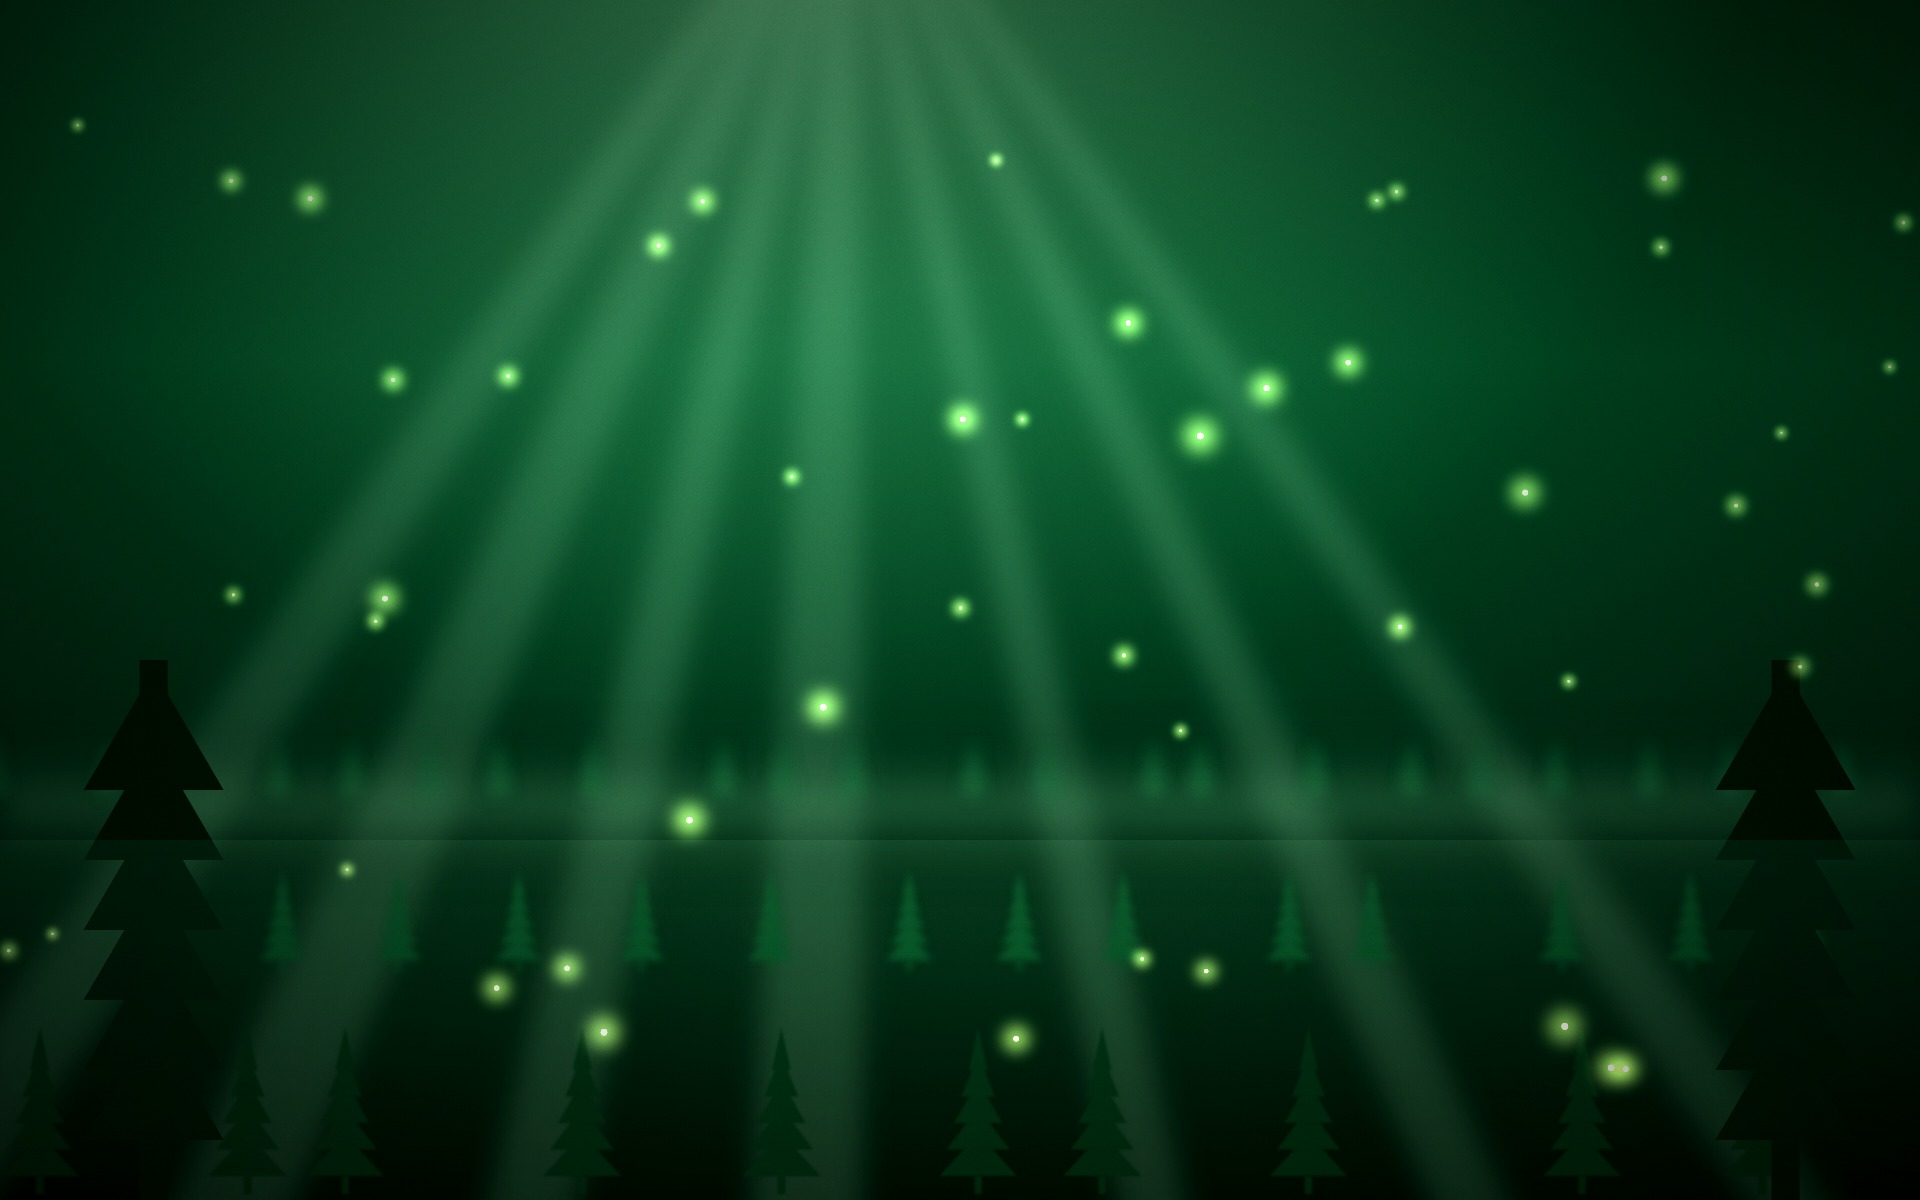
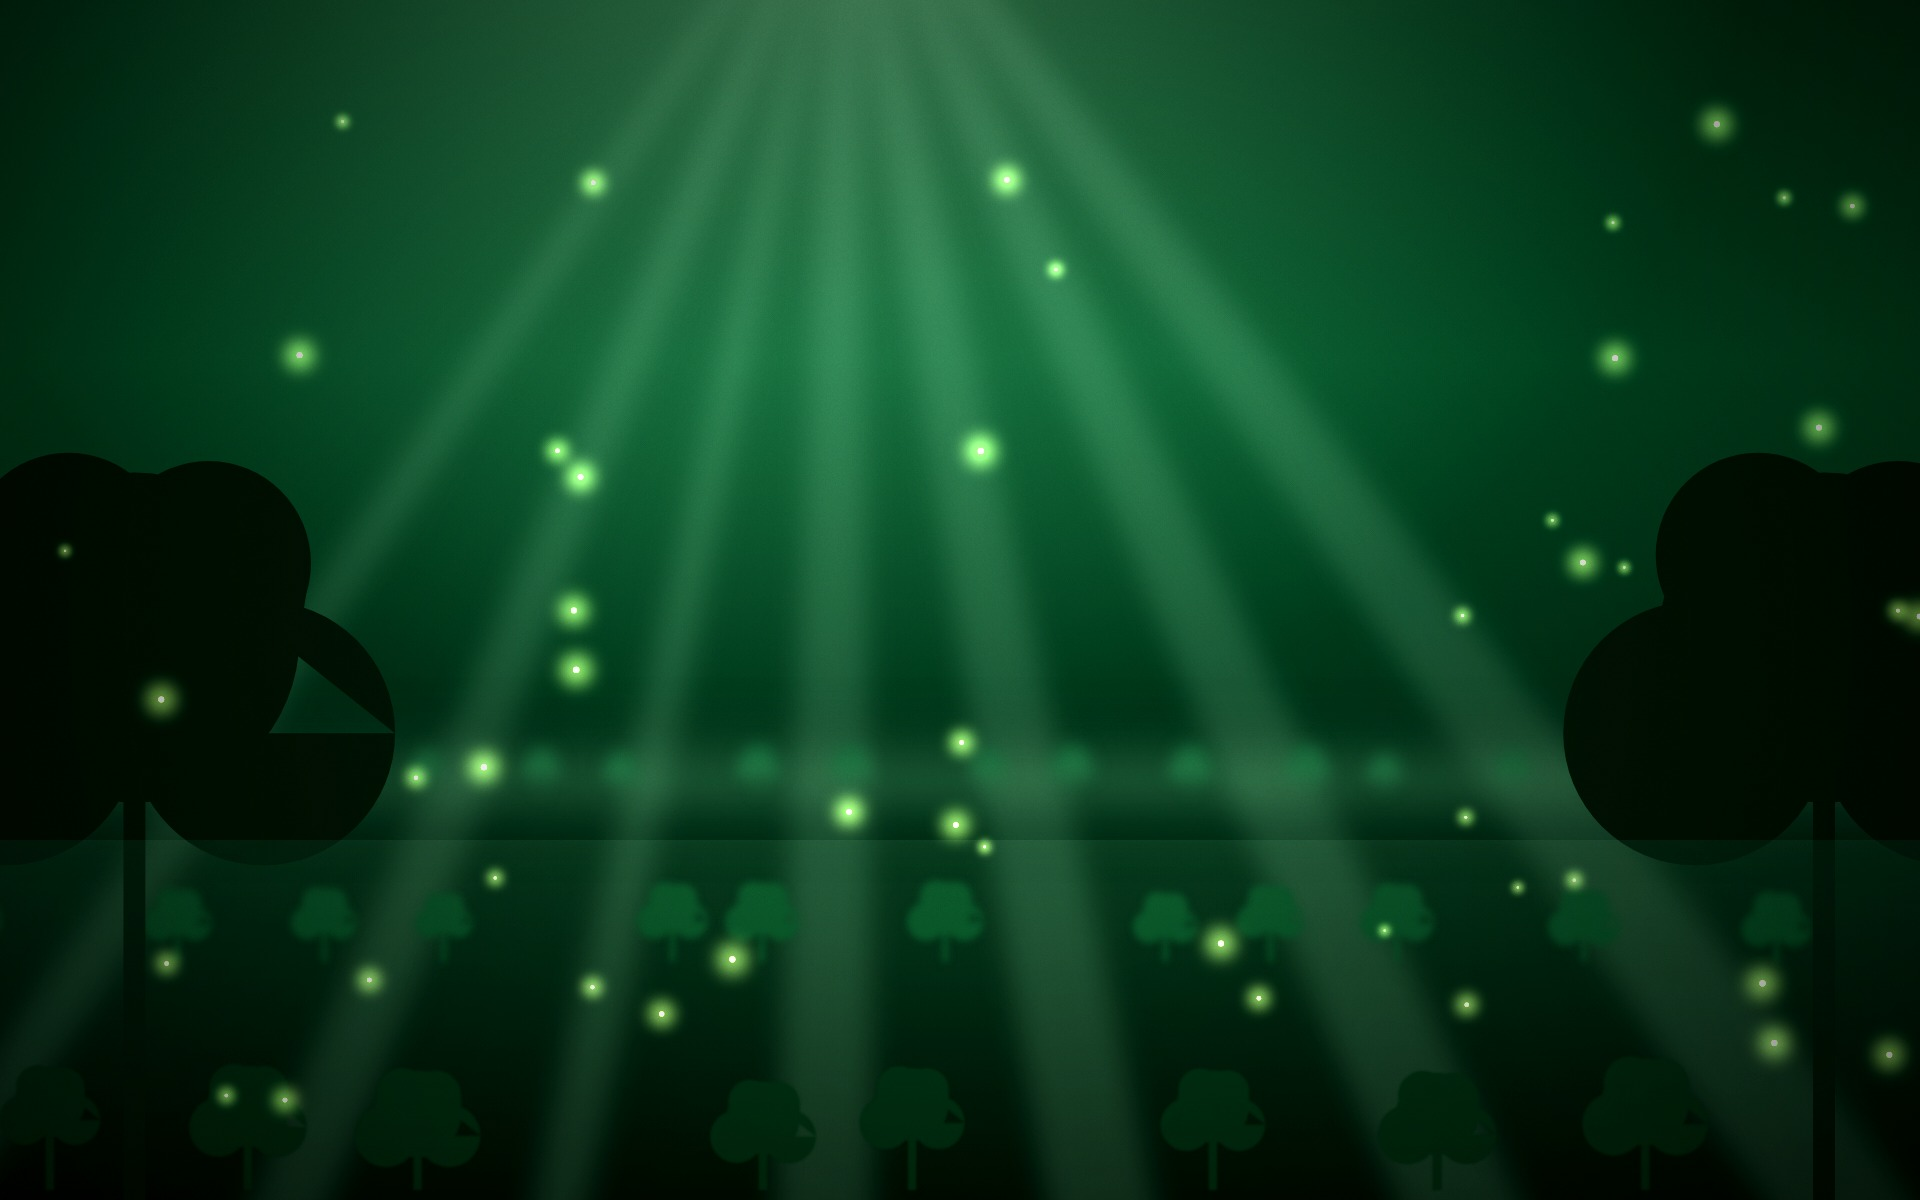
Forest: leafy rounded trees instead of fir/Christmas trees (+ cache v6)

diff --git a/theme-switcher.js b/theme-switcher.js
@@ -8,7 +8,7 @@
 (function(){
   var THEMES = [
     { id:'space',  emoji:'🌌', name:'Space' },
-    { id:'forest', emoji:'🌲', name:'Forest', img:'bg-forest.jpg',
+    { id:'forest', emoji:'🌳', name:'Forest', img:'bg-forest.jpg',
       litegrad:'linear-gradient(165deg, #eef7ea 0%, #dceee1 100%)',
       part:{kind:'firefly', n:30, colors:['#d6ff8a','#ecff9c','#bdf06a'], size:[1.6,3.4], rise:0.5} },
     { id:'sea',    emoji:'🌊', name:'Sea', img:'bg-sea.jpg',
@@ -153,7 +153,7 @@
 
     ensureLayers(); resize();
     document.body.style.removeProperty('background');
-    bgImg.style.backgroundImage="url('"+BASE+t.img+"?v=5')"; bgImg.style.display='block';
+    bgImg.style.backgroundImage="url('"+BASE+t.img+"?v=6')"; bgImg.style.display='block';
     scrim.style.display='block'; canvas.style.display='block';
     build(t); t0=0;
     if(reduce){ frame(t,16); if(raf){ cancelAnimationFrame(raf); raf=null; } }
